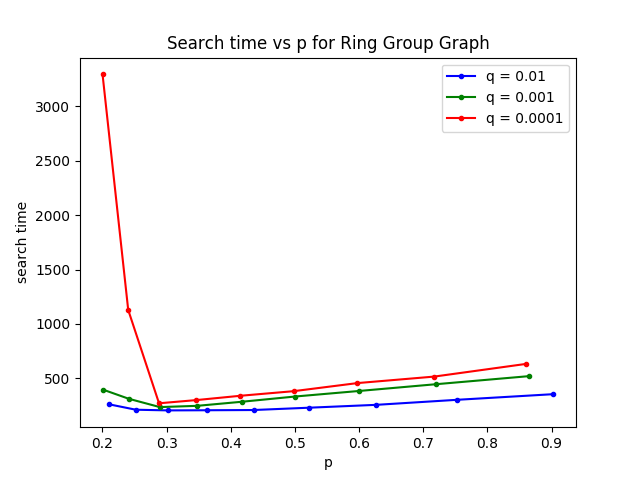
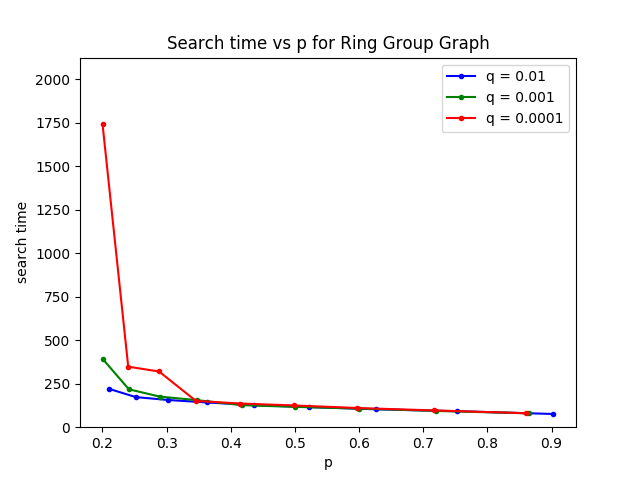
set a probability for q3 closest adjacent neighbour rgg search

diff --git a/q3-searching-problem.py b/q3-searching-problem.py
@@ -266,9 +266,12 @@ def search_ring_group_graph_v2(graph, m, k, p, q, v, t):
 
     t_group = t // k
 
+    prob_close = p
+
     # make it less likely to more to a node if p is more 0.5 as the graph is more connected
     if p > 0.5:
         p = 1 - p
+
 
     while True:
         # find the group label of the vertex
@@ -297,6 +300,8 @@ def search_ring_group_graph_v2(graph, m, k, p, q, v, t):
             u = neighbours[i]
             u_group = u // k
 
+            rand_num = random.random()
+
             search_time += 1
 
             if t == u:
@@ -307,7 +312,7 @@ def search_ring_group_graph_v2(graph, m, k, p, q, v, t):
             # check if t is adjacent to one of the neighbours
             elif u_group == t_group or abs(u_group - t_group) == 0 or abs(u_group-t_group) == m - 1:
                 # if v is not in adjacent group, u could be connected to t with probability p
-                if not adjacent_groups and random.random() < p:
+                if not adjacent_groups and rand_num < p:
                     v = u
                     moved = True
                     break
@@ -327,8 +332,12 @@ def search_ring_group_graph_v2(graph, m, k, p, q, v, t):
                 # as this is a ring both sides must be considered
                 if diff_u_t < diff_v_t:
                     closest_not_adjacent_v = u
+                    if rand_num < prob_close and adjacent_neighbour == -1:
+                        v = u
+                        moved = True
+                        break
 
-                if random.random() < q:
+                if rand_num < q:
                     v = u
                     moved = True
                     break
@@ -478,7 +487,7 @@ def plot_n_search_time_p(p_search_time_dists, plot_file_name, plot_name):
     i = 0
     num_colours = len(colours)
 
-    plt.ylim(150,1700)
+    plt.ylim(0,2125)
 
     # plot degree distribution
     plt.xlabel('p')
@@ -587,13 +596,13 @@ def run_search_ring_group_graph():
 
 
 def run_search_ring_group_graph_p():
-    # params = [(20,50,0.01), (20,50,0.001), (20,50,0.0001)]
-    params = [(50,20,0.01), (50,20,0.001), (50,20,0.0001)]
+    params = [(20,50,0.01), (20,50,0.001), (20,50,0.0001)]
+    # params = [(50,20,0.01), (50,20,0.001), (50,20,0.0001)]
 
     # sample of 50 pair of vertices
     t1 = 50
     # number of iterations for searching in one pair of vertices
-    t2 = 10
+    t2 = 20
     # number of graph instances
     t3 = 20
 
@@ -633,7 +642,7 @@ def run_search_ring_group_graph_p():
                     avg_search_time_v1 = 0
 
                     for j in range(t2):
-                        avg_search_time_v1 += search_ring_group_graph(graph,m,k,p,q,start_v,target_u)
+                        avg_search_time_v1 += search_ring_group_graph_v2(graph,m,k,p,q,start_v,target_u)
 
                     search_time_v1[(start_v,target_u,i)] = avg_search_time_v1 / t2
 
@@ -647,7 +656,7 @@ def run_search_ring_group_graph_p():
 
         search_time_p_dists += [(q,search_time_p)]
 
-    plot_n_search_time_p(search_time_p_dists, 'ring_group_graph-search_time-p-mGreater', 'Ring Group Graph')
+    plot_n_search_time_p(search_time_p_dists, 'ring_group_graph-search_time_v2-p-kGreater', 'Ring Group Graph')
 
     return search_time_p_dists
 
